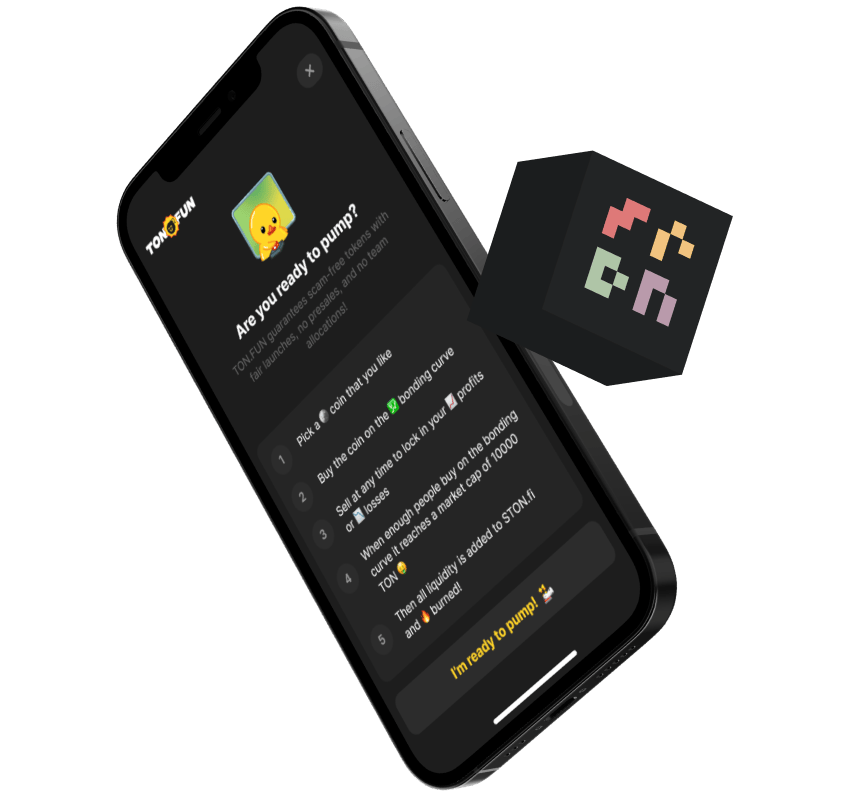
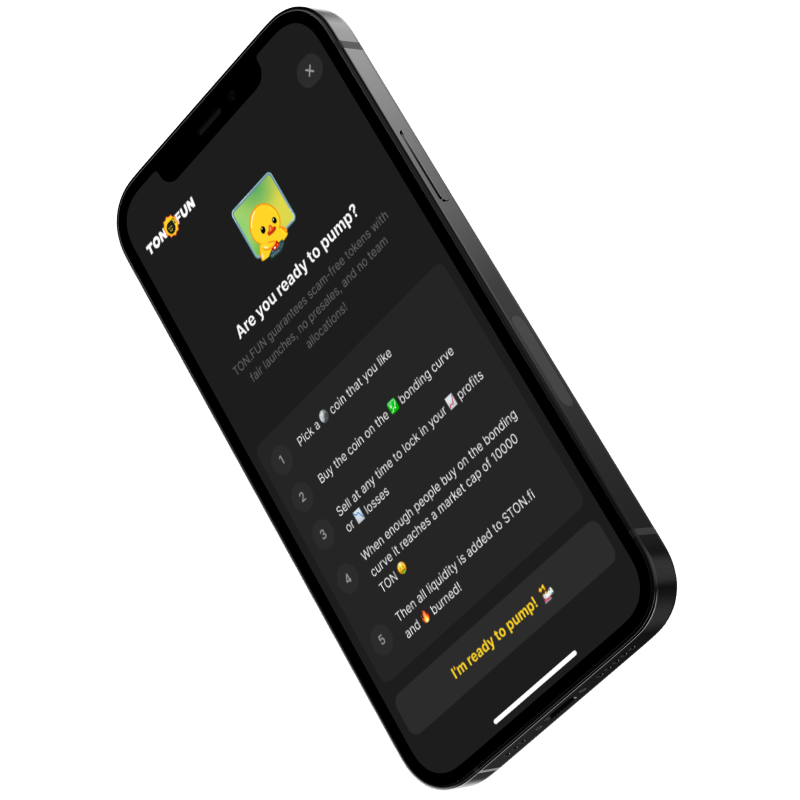
css fix

Changed region(s): [[0.125, 0.0, 0.875, 1.0]]

diff --git a/index.html b/index.html
@@ -61,7 +61,7 @@ $(window).on('load', function() {
 
 <div class="preload">
 <header class="header">
-  <div class="images"></div>
+  <div class="images"><div class="mrdn"></div></div>
     <div class="header-content">
         <a href="index.html">
             <div class="header__logo-container">
@@ -94,7 +94,7 @@ $(window).on('load', function() {
     <p class="section__description" data-aos="fade-up">
       The Token Producers Institute (TPI) is your gateway to mastering the art
       of meme token creation and launch within TON ecosystem. TPI provides the
-      tools, knowledge, and support you need to successfully launch tokens, in
+      tools, knowledge, and support you need to successfully launch meme tokens, in
       the rapidly growing memecoin market
     </p>
   </section>
@@ -103,7 +103,7 @@ $(window).on('load', function() {
       <h3 class="features__title__1">Expert Guidance</h3>
       <p class="features__description">
         Learn from top crypto professionals and influencers with hands-on
-        experience in token production
+        experience in meme token production
       </p>
     </div>
     <div class="features__item__2">
@@ -127,7 +127,7 @@ $(window).on('load', function() {
       <p class="features__description">
         Access a structured curriculum that covers everything from community
         building and market strategies to the technical aspects of launching
-        and promoting a token
+        and promoting a meme token
       </p>
     </div>
   </section>
@@ -138,7 +138,7 @@ $(window).on('load', function() {
         <img src="img/duck_1.svg" alt="duck_1" class="content__image" />
         <h4 class="content__title">Aspiring Token Producers</h4>
         <p class="content__description">
-          Individuals eager to learn how to successfully launch and manage
+          Individuals eager to learn how to successfully launch and manage meme
           tokens
         </p>
       </div>
@@ -146,7 +146,7 @@ $(window).on('load', function() {
         <img src="img/duck_2.svg" alt="duck_2" class="content__image" />
         <h4 class="content__title">Influencers and Streamers</h4>
         <p class="content__description">
-          Those looking to monetize their influence by launching their own
+          Those looking to monetize their influence by launching their own meme
           tokens and engaging their communities in new ways
         </p>
       </div>
@@ -159,30 +159,30 @@ $(window).on('load', function() {
         <img src="img/icon_1.svg" alt="Market Insights Image" class="gallery__img"/>
         <h4 class="gallery__caption">Market Insights</h4>
         <p class="gallery__description">
-          How to track and analyze key<br />metrics that drive successful
-          token<br />launches
+          How to track and analyze key metrics that drive successful meme
+          token launches
         </p>
       </div>
       <div class="gallery__image" data-aos="zoom-in" data-aos-offset="100">
         <img src="img/icon_2.svg" alt="Community Building Image" class="gallery__img" />
         <h4 class="gallery__caption">Community Building</h4>
         <p class="gallery__description">
-          Strategies to grow and maintain a<br />loyal audience
+          Strategies to grow and maintain a loyal audience
         </p>
       </div>
       <div class="gallery__image" data-aos="zoom-in" data-aos-offset="150"> 
         <img src="img/icon_3.svg" alt="Launch Strategies Image" class="gallery__img" />
         <h4 class="gallery__caption">Launch Strategies</h4>
         <p class="gallery__description">
-          Step-by-step guidance on how to<br />create, market, and promote
-          a<br />successful memecoin
+          Step-by-step guidance on how to create, market, and promote
+          a successful memecoin
         </p>
       </div>
       <div class="gallery__image" data-aos="zoom-in" data-aos-offset="200">
         <img src="img/icon_4.svg" alt="Outreach and Marketing Image" class="gallery__img" />
         <h4 class="gallery__caption">Outreach and Marketing</h4>
         <p class="gallery__description">
-          Techniques for effective outreach,<br />shilling, and audience
+          Techniques for effective outreach, shilling, and audience
           engagement
         </p>
       </div>
@@ -192,7 +192,7 @@ $(window).on('load', function() {
   <section class="info">
     <h3 class="info__title" data-aos="fade-up">How to Get Started?</h3>
     <p class="info__description" data-aos="fade-up">
-      Join TPI today and become a leader in the next wave of successful token
+      Join TPI today and become a leader in the next wave of successful meme token
       launches!
     </p>
     <div class="info__blocks-container" data-aos="fade-up">
@@ -215,7 +215,7 @@ $(window).on('load', function() {
         <h5 class="info__text__3">Access Premium<br>Resources</h5>
         <p class="info__subtitle__3">
           Leverage the tools, networks, and support offered exclusively to TPI
-          members to boost your token's success
+          members to boost your meme token's success
         </p>
         <img src="img/duck_5.svg" alt="duck_5" class="info__image__3" />
       </div>

diff --git a/styles.css b/styles.css
@@ -37,7 +37,7 @@
   width: 400px;
   height: 400px;
   background-image: url('img/img_ton.png');
-  animation: float 8s ease-in-out infinite;
+  animation: float 8s infinite;
 }
 
 .header::after {
@@ -46,7 +46,7 @@
   width: 240px;
   height: 400px;
   background-image: url('img/img_tron.png');
-  animation: float 16s ease-in-out infinite;
+  animation: float 12s infinite;
 }
 
 .images::before,
@@ -77,7 +77,7 @@
   width: 240px;
   height: 240px;
   background-image: url('img/img_sol.png');
-  animation: float 4s ease-in-out infinite;
+  animation: float 8s ease-in-out infinite;
 }
 
 @keyframes rotate-back-forth {
@@ -86,10 +86,10 @@
   }
 
   50% {
-    transform: rotateY(16deg) rotateX(-4deg);
+    transform: rotateY(24deg) rotateX(-4deg);
   }
   100% {
-    transform: rotateY(0deg) rotateX(0deg); 
+    transform: rotateY(0deg) rotateX(0deg);
   }
 }
 .images::after {
@@ -98,7 +98,17 @@
   width: 320px;
   height: 320px;
   background-image: url('img/img_phone.png');
-    animation: rotate-back-forth 4s infinite; 
+  animation: rotate-back-forth 4s ease-in-out infinite; 
+}
+
+.mrdn {
+  bottom: 120px;
+  left: 260px;
+  width: 120px;
+  height: 120px;
+  background-image: url('img/mrdn.png');
+  position: absolute;
+  background-size: 120px;
 }
 
 .header__logo-container {
@@ -704,6 +714,16 @@
 
 @media (max-width: 1200px) {
 
+  .mrdn {
+  bottom: 240px;
+  left: 100px;
+  width: 80px;
+  height: 80px;
+  background-image: url('img/mrdn.png');
+  position: absolute;
+  background-size: 80px;
+}
+
   .header__logo {
     margin-top: 48px;
   }
@@ -714,7 +734,7 @@
   width: 240px;
   height: 240px;
   background-image: url('img/img_ton.png');
-  animation: float 8s ease-in-out infinite;
+  animation: float 8s infinite;
 }
 
 .header::after {
@@ -723,7 +743,7 @@
   width: 144px;
   height: 240px;
   background-image: url('img/img_tron.png');
-  animation: float 16s ease-in-out infinite;
+  animation: float 12s infinite;
 }
 
 .images::before {
@@ -732,7 +752,7 @@
   width: 160px;
   height: 160px;
   background-image: url('img/img_sol.png');
-  animation: float 4s ease-in-out infinite;
+  animation: float 2s ease-in-out infinite;
 }
 .images::after {
   bottom: 120px;
@@ -740,7 +760,7 @@
   width: 240px;
   height: 240px;
   background-image: url('img/img_phone.png');
-  animation: rotate-back-forth 8s ease-in-out infinite; 
+  animation: rotate-back-forth 4s ease-in-out infinite; 
 }
 
   .intro {
@@ -989,6 +1009,15 @@
 }
 
 @media (max-width: 768px) {
+    .mrdn {
+  bottom: 130px;
+  left: 50px;
+  width: 80px;
+  height: 80px;
+  background-image: url('img/mrdn.png');
+  position: absolute;
+  background-size: 80px;
+}
 
 .intro, .header {
   min-height: 100vh; 
@@ -1013,7 +1042,7 @@
   width: 120px;
   height: 200px;
   background-image: url('img/img_tron.png');
-  animation: float 16s ease-in-out infinite;
+  animation: float 12s infinite;
 }
 
 .images::before {
@@ -1205,12 +1234,14 @@
     text-align: center;
     align-self: stretch;
     width: auto;
+    margin-top: 16px;
   }
 
   .gallery__description {
     align-self: stretch;
     text-align: center;
     width: auto;
+    margin-top: 0;
   }
 
   .info {
